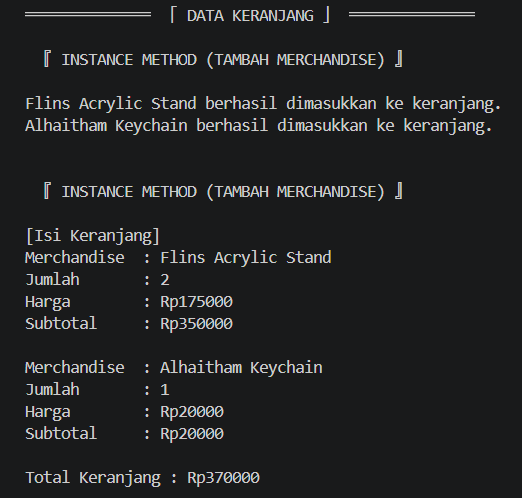
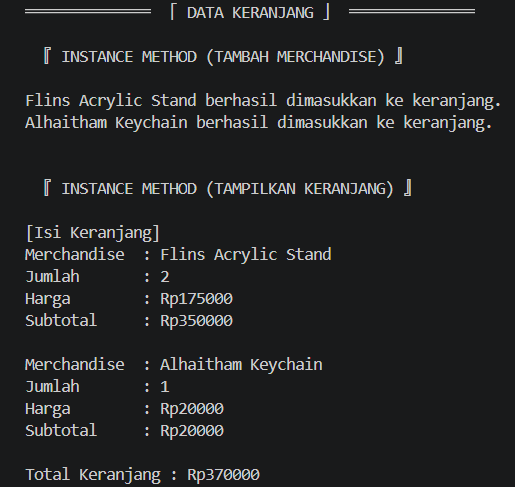
Kumpull pt2

diff --git a/posttest-2/README.md b/posttest-2/README.md
@@ -189,6 +189,17 @@ berkaitan dengan pembelian.
 ════════════════════════════════════════════════════════════════════════════════════════════
 
 
+## Diagram UML yang Tercipta
+
+
+Berikut ini adalah diagram UML berdasarkan program tersebut.
+
+![Gambar 1. Output Class 'merchandise'](Gambar/uml.png)
+
+
+════════════════════════════════════════════════════════════════════════════════════════════
+
+
 ## Panduan Menjalankan Program
 
 
